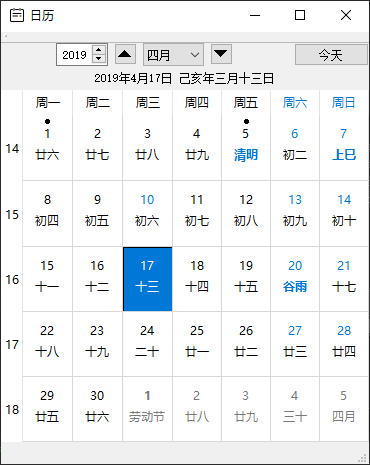
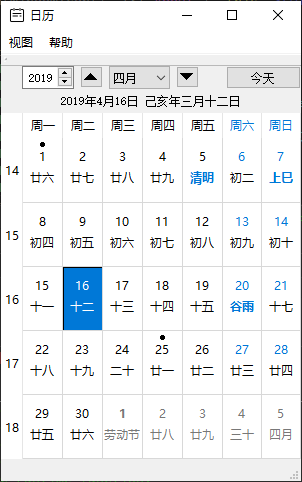
Add week view

diff --git a/Src/LunarCalendarModel.cpp b/Src/LunarCalendarModel.cpp
@@ -13,6 +13,7 @@ CLunarCalendarModel::CLunarCalendarModel(QObject *parent)
       m_MaximumDate(9999, 12, 31),
       m_ShownYear(m_Date.year()),
       m_ShownMonth(m_Date.month()),
+      m_ShowWeek(1),
       m_FirstDay(QLocale().firstDayOfWeek())      
 {
     SetCalendarType(static_cast<CLunarCalendar::_CalendarType>(
@@ -121,7 +122,8 @@ QVariant CLunarCalendarModel::data(const QModelIndex &index, int role) const
         return GetDay(row, column).szLunar;
     case LunarColorRole:
     {
-        if(d.month() != m_ShownMonth)
+        if(d.month() != m_ShownMonth
+                && CLunarCalendar::ViewTypeMonth == m_viewType)
             return ColorDisable;
 
         if(GetDay(row, column).szLunarHoliday.isEmpty())
@@ -140,7 +142,8 @@ QVariant CLunarCalendarModel::data(const QModelIndex &index, int role) const
         return GetDay(row, column).szAnniversary;
     case SolarColorRole:
     {
-        if(d.month() != m_ShownMonth)
+        if(d.month() != m_ShownMonth
+                && CLunarCalendar::ViewTypeMonth == m_viewType)
             return ColorDisable;
 
         if(d.dayOfWeek() == Qt::Saturday
@@ -194,7 +197,7 @@ int CLunarCalendarModel::Show()
     case CLunarCalendar::ViewTypeWeek:
         return ShowWeek();
     }
-    
+    return 0;
 }
 
 int CLunarCalendarModel::showWeek(int year, int week)
@@ -382,6 +385,17 @@ void CLunarCalendarModel::internalUpdate()
 
 QDate CLunarCalendarModel::dateForCell(int row, int column) const
 {
+    switch (m_viewType) {
+    case CLunarCalendar::ViewTypeMonth:
+        return dateForCellMonth(row, column);
+    case CLunarCalendar::ViewTypeWeek:
+        return dateForCellWeek(row, column);
+    }
+    return QDate();
+}
+
+QDate CLunarCalendarModel::dateForCellMonth(int row, int column) const
+{
     if (row < 0 || row > m_RowCount - 1
         || column < 0 || column > m_ColumnCount - 1)
         return QDate();
@@ -397,7 +411,44 @@ QDate CLunarCalendarModel::dateForCell(int row, int column) const
     return refDate.addDays(requestedDay);
 }
 
+QDate CLunarCalendarModel::dateForCellWeek(int row, int column) const
+{
+    if (row != 0 || column < 0 || column > m_ColumnCount - 1)
+        return QDate();
+
+    QDate firstOfYear(m_ShownYear, 1, 1);
+    QDate date;
+    int year = 0;
+    int weeks = m_ShowWeek;
+    
+    if(1 != firstOfYear.weekNumber(&year))
+        weeks++;
+    
+    date = firstOfYear.addDays((weeks -1 )* 7);
+    int col = columnForDayOfWeek(static_cast<Qt::DayOfWeek>(date.dayOfWeek()));
+    QDate firstDayOfWeek = date.addDays(-col);
+    return firstDayOfWeek.addDays(column);
+}
+
 void CLunarCalendarModel::cellForDate(const QDate &date, int *row, int *column) const
+{
+    if (!row && !column)
+        return;
+    
+    if (row)
+        *row = -1;
+    if (column)
+        *column = -1;
+    
+    switch (m_viewType) {
+    case CLunarCalendar::ViewTypeMonth:
+        return cellForDateMonth(date, row, column);
+    case CLunarCalendar::ViewTypeWeek:
+        return cellForDateWeek(date, row, column);
+    }
+}
+
+void CLunarCalendarModel::cellForDateMonth(const QDate &date, int *row, int *column) const
 {
     if (!row && !column)
         return;
@@ -431,6 +482,27 @@ void CLunarCalendarModel::cellForDate(const QDate &date, int *row, int *column) 
         *row = r;
     if (column)
         *column = c;
+}
+
+void CLunarCalendarModel::cellForDateWeek(const QDate &date, int *row, int *column) const
+{
+    if (!row && !column)
+        return;
+
+    if (row)
+        *row = -1;
+    if (column)
+        *column = -1;
+    
+    int year;
+    int weeks = date.weekNumber(&year);
+    if(weeks != m_ShowWeek)
+        return;
+    if(date.year() != m_ShownYear && date.year() != year)
+        return;
+    
+    *row = 1;
+    *column = columnForDayOfWeek(static_cast<Qt::DayOfWeek>(date.dayOfWeek()));
 }
 
 /*

diff --git a/App/MainWindow.cpp b/App/MainWindow.cpp
@@ -53,8 +53,8 @@ MainWindow::MainWindow(QWidget *parent) :
 //    m_pLunarCalendar->SetShowWeekHead(false);
 //    m_pLunarCalendar->SetShowWeeks(false);
 //    m_pLunarCalendar->SetShowHead(false);
-    //m_pLunarCalendar->AddAnniversary(4, 1, "my birth");
-    //m_pLunarCalendar->AddAnniversary(4, 25, "you birth");
+    m_pLunarCalendar->AddAnniversary(4, 1, "my birth");
+    m_pLunarCalendar->AddAnniversary(4, 25, "you birth");
     //m_pLunarCalendar->SetCalendarType(CLunarCalendar::CalendarTypeLunar);
     //m_pLunarCalendar->SetViewType(CLunarCalendar::ViewTypeWeek);
     
@@ -72,7 +72,7 @@ void MainWindow::slotAbout()
 {
 #ifdef RABBITCOMMON
     CDlgAbout about(this);
-    about.m_AppIcon = windowIcon().pixmap(windowIcon().availableSizes().at(0));
+    about.m_AppIcon = QPixmap(":/image/Calendar");
     about.m_szHomePage = "https://github.com/KangLin/LunarCalendar";
     about.exec();
 #endif

diff --git a/Src/LunarCalendarModel.h b/Src/LunarCalendarModel.h
@@ -89,6 +89,10 @@ private:
     QDate firstDateMonth() const;
     QDate endDateMonth() const;
     int WeeksOfMonth();
+    QDate dateForCellMonth(int row, int column) const;
+    void cellForDateMonth(const QDate &date, int *row, int *column) const;
+    QDate dateForCellWeek(int row, int column) const;
+    void cellForDateWeek(const QDate &date, int *row, int *column) const;
     int columnForFirstOfMonth(const QDate &date) const;
     int columnForDayOfWeek(Qt::DayOfWeek day) const;
     QTextCharFormat formatForCell(QDate d, int row, int col) const;

diff --git a/Src/LunarCalendar.cpp b/Src/LunarCalendar.cpp
@@ -639,6 +639,7 @@ int CLunarCalendar::SetViewType(_VIEW_TYPE type)
         return -1;
     int nRet = pModel->SetViewType(type);
     UpdateMonthMenu();
+    UpdateView();
     return nRet;
 }
 
